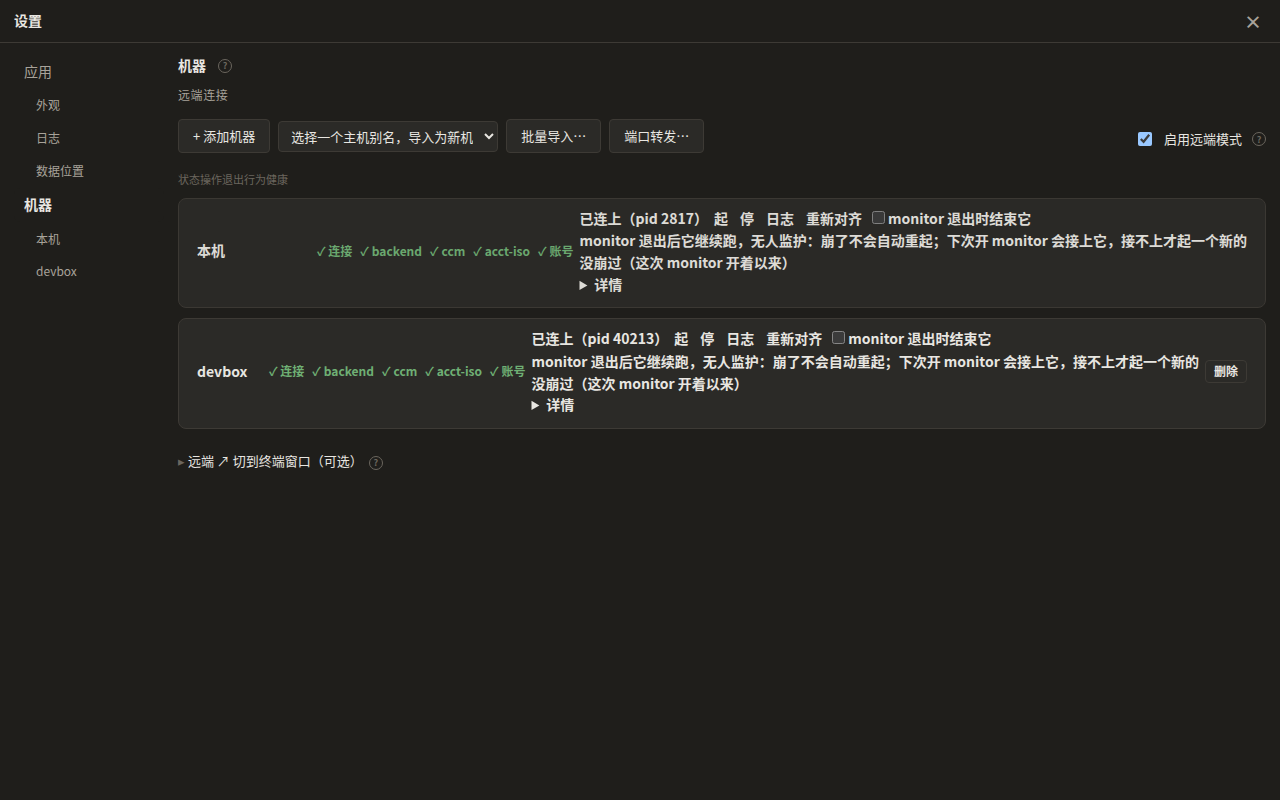
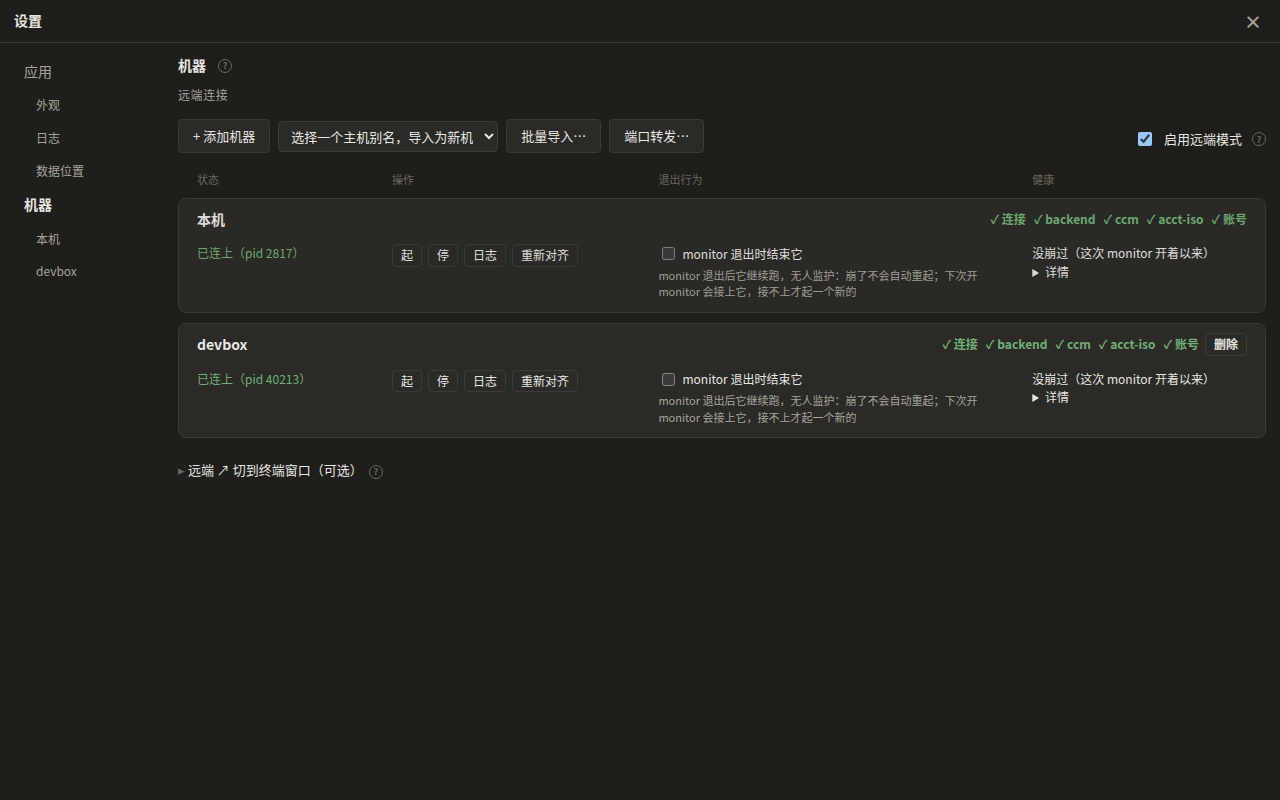
子步 5/5：重拍 machines.png · footprint.png（其余三张不动）
machines：后端四格分列对齐（子步 4）；footprint：ccm 那一节两条旧版遗留画成正常的「没有旧版遗留」（子步 3）。
README-shots-ipc.ts 的足迹那一段不再把旧版遗留改写成「不存在」—— 金样里那两行现在就是后端给的 expected_absent，原样留着。

diff --git a/tests/evidence/README-shots-ipc.ts b/tests/evidence/README-shots-ipc.ts
@@ -172,21 +172,18 @@ function panorama(op: string, args: Json | null): unknown {
 
 /**
  * 足迹：行的**结构与文字**取后端现产的跨语言金样（`tests/__fixtures__/footprint-report.golden.json`，每一句都是文案表里的成品），
- * 家目录换成夹具那台；这台上装着的改成「在」（在的那句话同样取文案表），旧版遗留那几行保持「不存在」—— 那正是健康的样子；
- * 项目目录 / 由配置决定的那几行后端本来就答「未确定」，原样留着。
+ * 家目录换成夹具那台；这台上装着的改成「在」（在的那句话同样取文案表）；旧版遗留那几行后端本来就答「该不在、确实不在」、
+ * 项目目录 / 由配置决定的那几行后端本来就答「未确定」—— 这两类原样留着。
  */
 function footprint(): unknown {
   const g = JSON.parse(JSON.stringify(FOOTPRINT_GOLDEN).split("/nonexistent-footprint-golden").join("/home/dev")) as {
-    rows: { path_declared: string; tier: string; host_label: string; effect_label: string; state: unknown }[];
+    rows: { path_declared: string; tier: string; host_label: string; state: { kind: string; detail?: string } }[];
     settings_scopes: { state: unknown; has_cc_bus_hooks: boolean | null }[];
   };
   const sizeOf = (path: string): number => 900 + ([...path].reduce((n, c) => n * 31 + c.charCodeAt(0), 7) % 38_000);
   for (const r of g.rows) {
     const p = r.path_declared;
-    if (r.effect_label === copyText("rsConfigSurface.effect.retiredLegacy")) {
-      r.state = { kind: "absent" };
-      continue;
-    }
+    if (r.state.kind === "expected_absent") continue;
     if (p.startsWith("$") || r.host_label === copyText("rsConfigSurface.host.projectDir")) continue;
     const seen =
       r.tier === "UserInstallsWePrompt"
